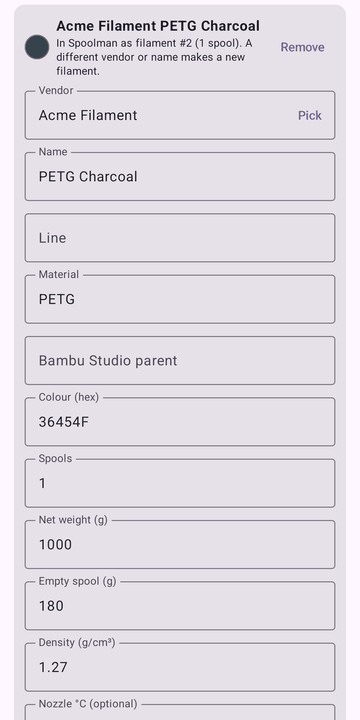
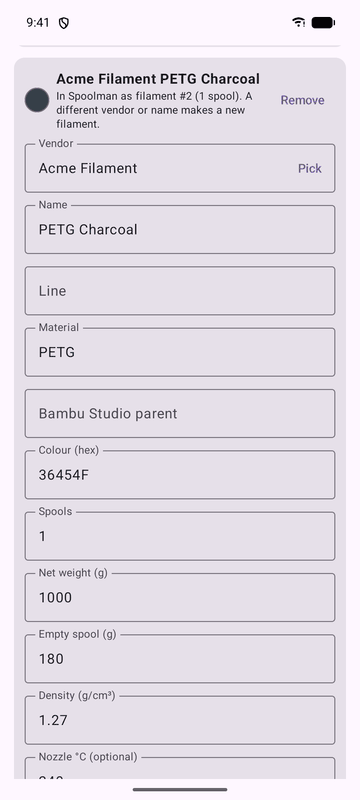
docs: retaken Android screenshots, plus the printers list, add printer, printer and spool card shots
All ten shots come from the app session's retakes (dark status bar icons,
model names, spool card button row fixed); made-up data only, 360 px wide.
Settings and Licences shots wait for the Licences screen to reach main.

Changed region(s): [[0.0611, 0.0, 0.9472, 0.6417], [0.0611, 0.6722, 0.9472, 1.0], [0.7639, 0.0, 0.9472, 0.0917]]

diff --git a/docs/android-app.md b/docs/android-app.md
@@ -56,6 +56,8 @@ You need a Bambu Lab printer on the same network as the server, switched on.
 
 1. Open **Printers**. The server finds printers by itself; each shows its name, model and state. If the list is
    empty, check the printer is on and tap **Refresh**.
+<img src="images/android-printers-list.png" width="240" alt="Printers: one connected, one found but not set up"> <img src="images/android-add-printer.png" width="240" alt="Add printer: serial, name and Access Code">
+
 2. A printer marked **Tap to add this printer** is found but not set up. Tap it. The **Add printer** box shows its
    serial. Optionally give it a **Name**, type its **Access Code**, and tap **Add**. The code is on the printer:
    **Settings → Network/LAN → Access Code**.
@@ -76,6 +78,8 @@ You need a Bambu Lab printer on the same network as the server, switched on.
 **Printer not in the list at all?** Add it from the server instead: `sudo filament-kit config` → **5) Printers** →
 **add printer**, with its name, IP address, serial number and Access Code. (A server in WSL or a virtual machine
 behind NAT can't see printers; see [Running the server in WSL](install-server.md#running-the-server-in-wsl).)
+
+<img src="images/android-printer-screen.png" width="240" alt="A printer's screen: slots with Unload, and Map slots">
 
 ### Slot mapping (only if you want filament use counted)
 
@@ -156,6 +160,8 @@ duplicates: check Spoolman first.
 ### Link an NFC tag, set the weight, and the rest
 
 With the app open, tap a spool's NFC tag on the back of the phone.
+
+<img src="images/android-spool-card.png" width="240" alt="A spool's card: Update weight, Move, Mark empty, Load into printer">
 
 - **A tag already linked** opens the spool's card: type **Gross weight (g)** (the spool on a scale) and tap
   **Update weight**; the app shows `Remaining would change from … g to … g`, and **Confirm** saves it. **Move** changes
